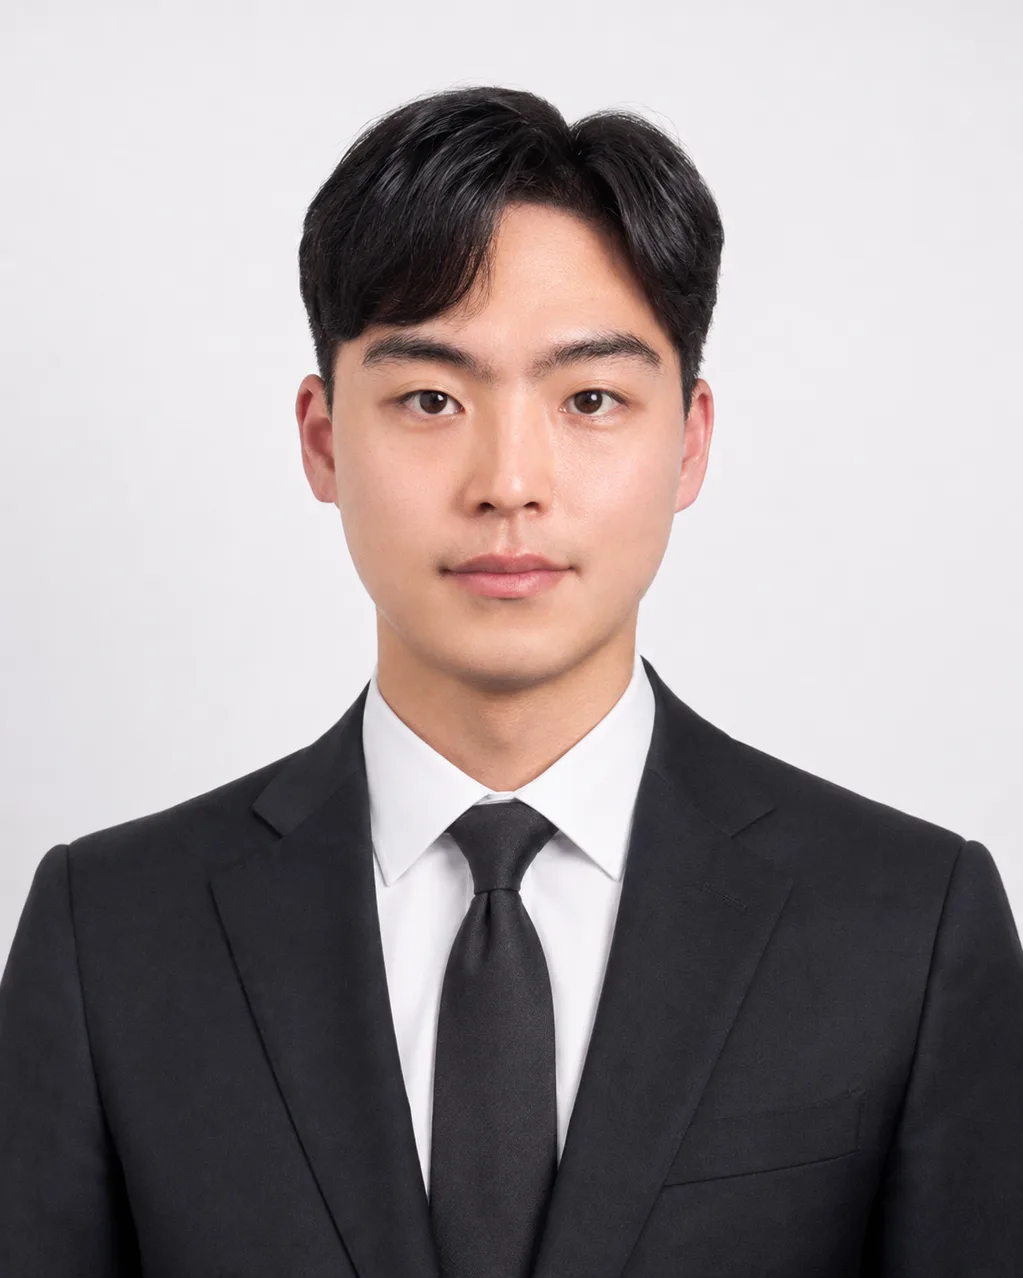
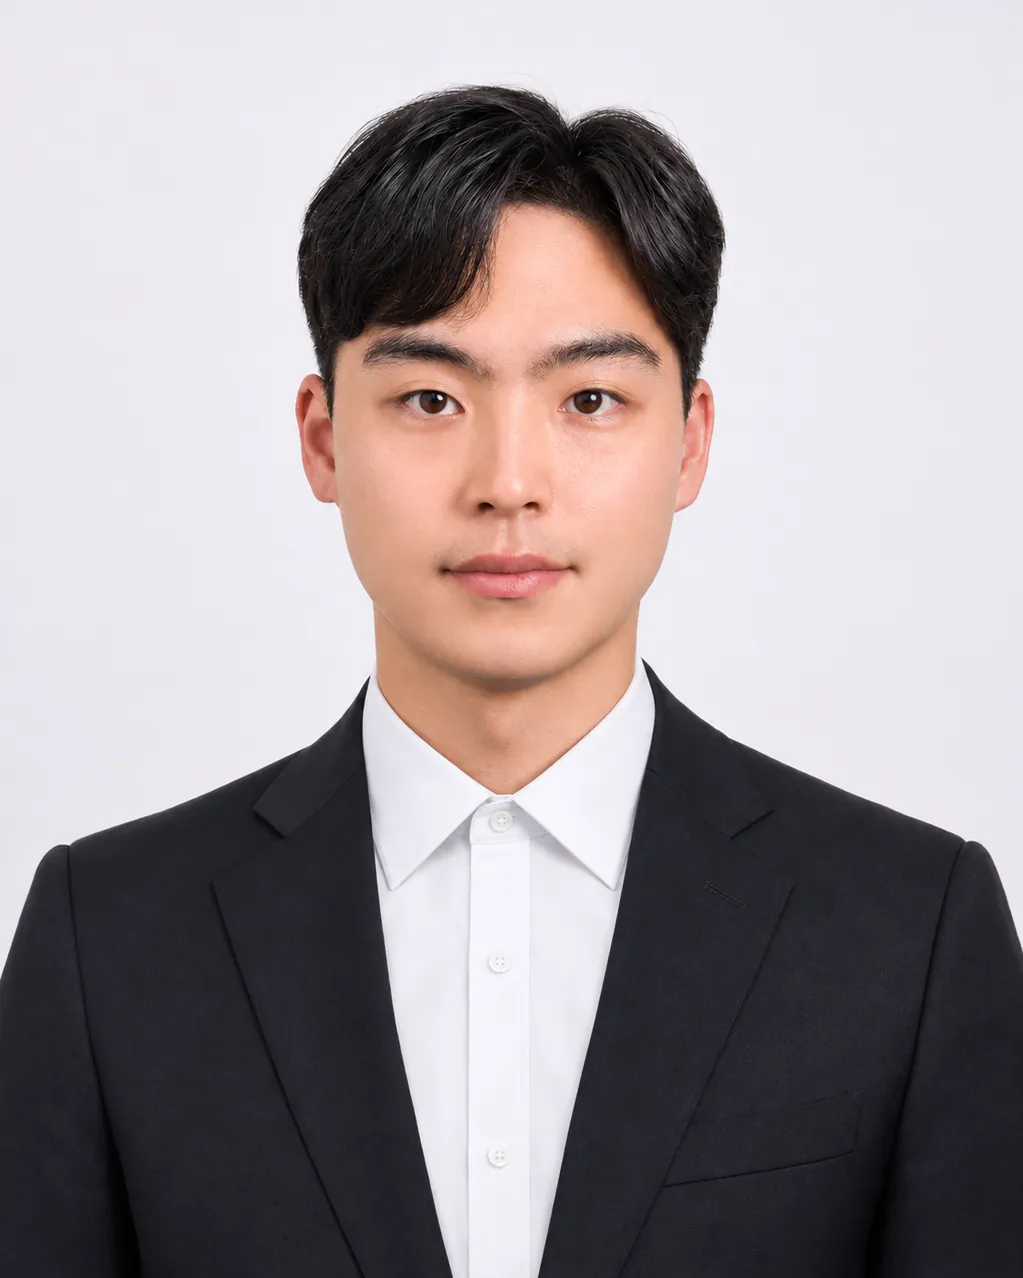
chore: 팝업 제거·새 프로필 사진 내용 반영 (91b1246 누락분)
- index.html: 수리논술 특강 팝업 블록 제거, 구본수 원장 사진 경로 bs-t-v2.webp로 변경
- images/bonsu-t.png: 새 원본 사진
- images/bs-t-v2.webp: 새 사진으로 재생성한 webp

diff --git a/index.html b/index.html
@@ -277,7 +277,7 @@
       </article>
 
       <article class="director-card">
-        <div class="director-photo"><img src="images/bs-t.webp" alt="구본수 원장" /></div>
+        <div class="director-photo"><img src="images/bs-t-v2.webp" alt="구본수 원장" /></div>
         <div class="director-info">
           <h3 class="director-name">구본수 원장</h3>
           <p class="director-edu">KAIST 수리과학과</p>
@@ -494,26 +494,6 @@
 <!-- ===================== MOBILE FIXED CTA ===================== -->
 <div class="mobile-cta" aria-label="빠른 상담">
   <a href="https://pf.kakao.com/_xfETmX/chat" target="_blank" rel="noopener" data-kakao-consult class="mcta-item mcta-primary mcta-kakao"><svg viewBox="0 0 24 24" fill="currentColor" stroke="none" aria-hidden="true"><path d="M12 3C6.48 3 2 6.58 2 10.5c0 2.52 1.73 4.74 4.34 6.01-.19.68-.69 2.47-.79 2.85-.12.47.17.46.36.34.15-.1 2.38-1.62 3.35-2.28.56.08 1.14.12 1.74.12 5.52 0 10-3.58 10-7.54S17.52 3 12 3z"/></svg>카카오톡 채팅상담</a>
-</div>
-
-<!-- ===================== PROMO POPUP (특강 안내 이미지 — 겹침형, 현재 1개: 수리논술) ===================== -->
-<div class="promo-popup" id="promoPopup" aria-hidden="true">
-  <div class="promo-backdrop" data-popup-close-front></div>
-
-  <!-- 뒤쪽 팝업 : 수리논술 특강 (앞쪽 KMA 팝업은 2026-10-29 종료) -->
-  <div class="promo-card promo-card-back" data-popup-id="math" role="dialog" aria-modal="true" aria-label="대입 수리논술 특강 안내">
-    <span class="promo-count" data-popup-count aria-hidden="true"></span>
-    <button type="button" class="promo-close" aria-label="닫기" data-popup-close>
-      <svg viewBox="0 0 24 24" fill="none" stroke="currentColor" stroke-width="2" stroke-linecap="round" stroke-linejoin="round"><line x1="18" y1="6" x2="6" y2="18"/><line x1="6" y1="6" x2="18" y2="18"/></svg>
-    </button>
-    <button type="button" class="promo-poster" data-popup-reserve aria-label="2027 대입 수리논술 특강 — 카카오톡 채팅상담">
-      <img src="images/math-essay_poster.png" alt="도성수학학원 2027 대입 수리논술 특강 FINAL 안내" />
-    </button>
-    <div class="promo-bar">
-      <button type="button" class="promo-hide" data-popup-hide>오늘 하루 보지 않기</button>
-      <button type="button" class="promo-close-text" data-popup-close>닫기</button>
-    </div>
-  </div>
 </div>
 
 
